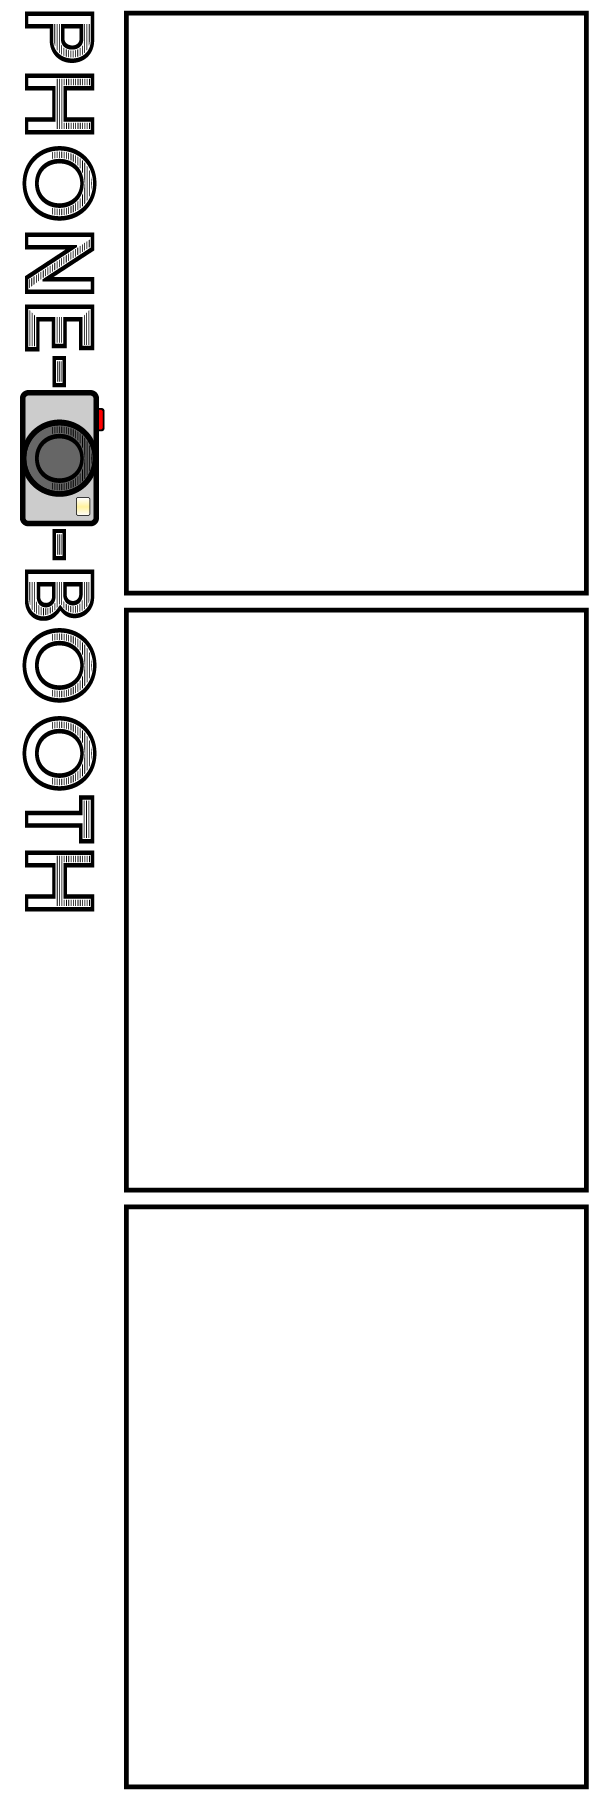
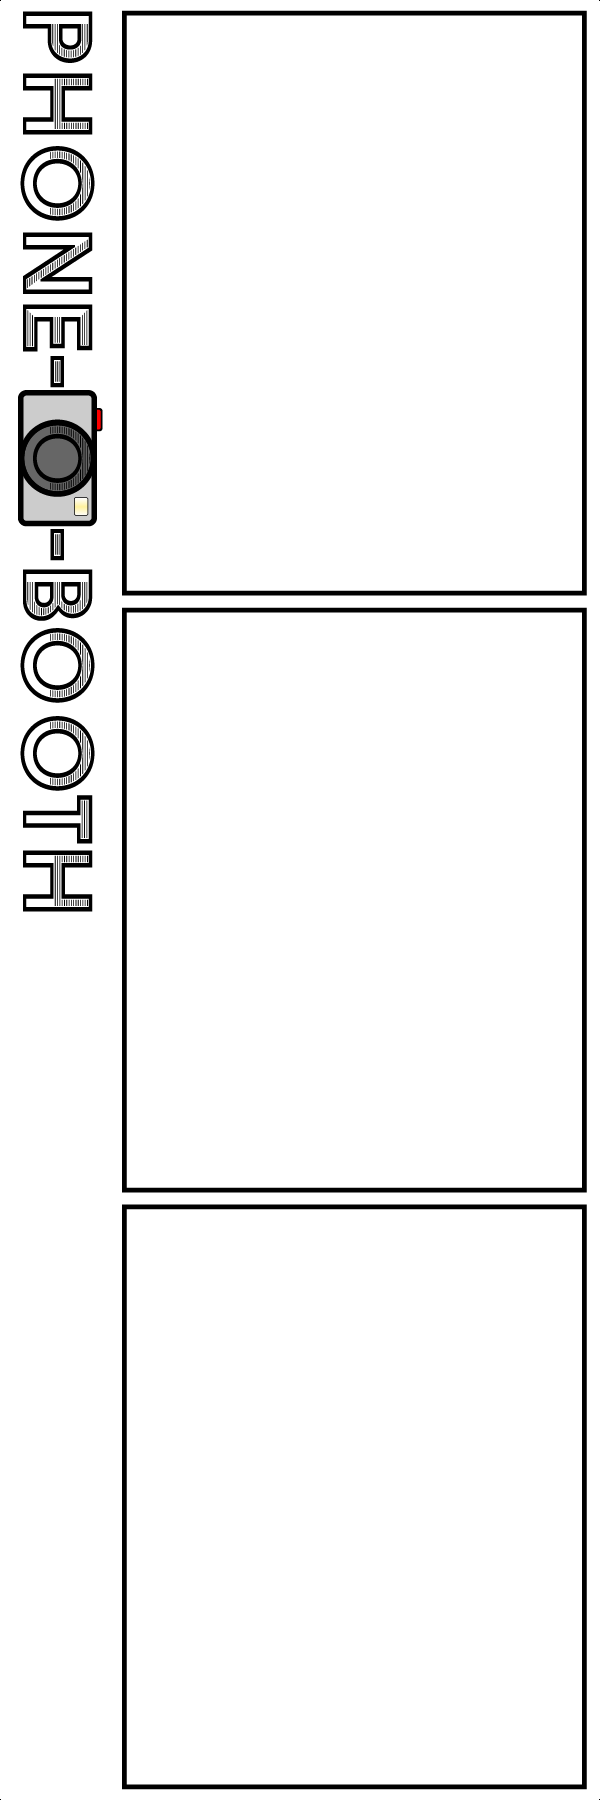
Phoneobooth Big Update

Changed region(s): [[0.03, 0.0, 0.24, 0.9956]]

diff --git a/phoneobooth/phoneobooth.js b/phoneobooth/phoneobooth.js
@@ -17,6 +17,10 @@ let snap1;
 let snap2;
 let snap3;
 let snap4;
+let snap1bw;
+let snap2bw;
+let snap3bw;
+let snap4bw;
 let firstTime = true;
 let printSave;
 let digiSave;
@@ -25,6 +29,11 @@ let exportmenu = false;
 let desktop = false;
 let translation = 0;
 let photomax;
+let bwfilter = false;
+let currentcolor = 0;
+let colors;
+let colormax;
+let framecolordark = false;
 
 function preload() {
   helpbg = loadImage('assets/help.png');
@@ -35,7 +44,13 @@ function preload() {
   digiTemp = loadImage('assets/digitemp.png');
   printTempM = loadImage('assets/printtempm.png');
   digiTempM = loadImage('assets/digitempm.png');
+  printTempW = loadImage('assets/printtempwhite.png');
+  digiTempW = loadImage('assets/digitempwhite.png');
+  printTempWM = loadImage('assets/printtempwhitem.png');
+  digiTempWM = loadImage('assets/digitempwhitem.png');
   exportMenuBg = loadImage('assets/exportmenu.png');
+  bwdot = loadImage('assets/bwdot.png');
+  coldot = loadImage('assets/coldot.png');
 }
 
 function setup() {
@@ -56,6 +71,17 @@ function setup() {
   stroke('black');
   strokeWeight(4);
   heightScale = capture.height;
+  white =color(255, 255, 255);
+  sky = color(186,225,255);
+  lavender = color(201,201,255);
+  sunbeam = color(255,255,186);
+  tangerine = color(255,209,173);
+  rose = color(255,189,189);
+  green = color(186,255,201);
+  black =color(0, 0, 0);
+  colors = [white, sky, lavender, sunbeam, tangerine, rose, green, black];
+  colormax = colors.length - 1;
+
 }
 
 
@@ -99,8 +125,11 @@ function draw() {
       cnv = createCanvas(windowWidth, windowWidth*1.7);
     }
     background(241, 95, 91);
+
     image(exportbg, 0, 0, ratioScale*1080, ratioScale*1840);
     image(digiSave, 340*ratioScale, 272*ratioScale, ratioScale*400, ratioScale*1200);
+    drawFilterDot();
+    drawColorDot();
     if (exportmenu) {
       image(exportMenuBg, 125*ratioScale, 401*ratioScale, ratioScale*828, ratioScale*556);
     }
@@ -136,6 +165,12 @@ function touchEnded() {
     }
     if (buttonBounds(56, 1548, 457, 94)) {
       exportmenu = true;
+    }
+    if (buttonBounds(819, 1266, 174, 174)) {
+      changeFilter();
+    }
+    if (buttonBounds(79, 1266, 174, 174)) {
+      changeColor();
     }
     if (exportmenu) {
       if (buttonBounds(235, 607, 610, 94)) {
@@ -192,12 +227,16 @@ function flashScreen() {
     //Take Photo
     if (photoCounter == 0) {
       snap1 = capture.get();
+      snap1bw = capture.get();
     } else if (photoCounter == 1) {
       snap2 = capture.get();
+      snap2bw = capture.get();
     } else if (photoCounter == 2) {
       snap3 = capture.get();
+      snap3bw = capture.get();
     } else if (photoCounter == 3) {
       snap4 = capture.get();
+      snap4bw = capture.get();
     }
   }
   if (flashCounter==0) {
@@ -224,32 +263,52 @@ function resetVars() {
 }
 
 function printingScreen() {
-if(desktop) {
-printingScreenD();
-} else {
-printingScreenM();
-}
+  snap1bw.filter(GRAY, false);
+  snap2bw.filter(GRAY, false);
+  snap3bw.filter(GRAY, false);
+  if (desktop) {
+    snap4bw.filter(GRAY, false);
+    printingScreenD();
+  } else {
+    printingScreenM();
+  }
 }
 
 function digifyScreen() {
-if(desktop) {
-digifyScreenD();
-} else {
-digifyScreenM();
-}
+  if (desktop) {
+    digifyScreenD();
+  } else {
+    digifyScreenM();
+  }
 }
 
 function printingScreenD() {
   cnvBuild = createCanvas(1200, 1800);
-  image(printTemp, 0, 0, 1200, 1800);
-  image(snap1, 50, 45, 501, 376);
-  image(snap1, 650, 45, 501, 376);
-  image(snap2, 50, 458, 501, 376);
-  image(snap2, 650, 458, 501, 376);
-  image(snap3, 50, 871, 501, 376);
-  image(snap3, 650, 871, 501, 376);
-  image(snap4, 50, 1284, 501, 376);
-  image(snap4, 650, 1284, 501, 376);
+  drawStripBG();
+  if (bwfilter) {
+    image(snap1bw, 50, 45, 501, 376);
+    image(snap1bw, 650, 45, 501, 376);
+    image(snap2bw, 50, 458, 501, 376);
+    image(snap2bw, 650, 458, 501, 376);
+    image(snap3bw, 50, 871, 501, 376);
+    image(snap3bw, 650, 871, 501, 376);
+    image(snap4bw, 50, 1284, 501, 376);
+    image(snap4bw, 650, 1284, 501, 376);
+  } else {
+    image(snap1, 50, 45, 501, 376);
+    image(snap1, 650, 45, 501, 376);
+    image(snap2, 50, 458, 501, 376);
+    image(snap2, 650, 458, 501, 376);
+    image(snap3, 50, 871, 501, 376);
+    image(snap3, 650, 871, 501, 376);
+    image(snap4, 50, 1284, 501, 376);
+    image(snap4, 650, 1284, 501, 376);
+  }
+  if (framecolordark) {
+    image(printTempW, 0, 0, 1200, 1800);
+  } else {
+    image(printTemp, 0, 0, 1200, 1800);
+  }
   printSave = cnvBuild.get();
   printScreen = false;
   digiScreen = true;
@@ -257,11 +316,24 @@ function printingScreenD() {
 
 function digifyScreenD() {
   cnvBuildDig = createCanvas(600, 1800);
-  image(digiTemp, 0, 0, 600, 1800);
-  image(snap1, 50, 45, 501, 376);
-  image(snap2, 50, 458, 501, 376);
-  image(snap3, 50, 871, 501, 376);
-  image(snap4, 50, 1284, 501, 376);
+  drawStripBG();
+  if (bwfilter) {
+    image(snap1bw, 50, 45, 501, 376);
+    image(snap2bw, 50, 458, 501, 376);
+    image(snap3bw, 50, 871, 501, 376);
+    image(snap4bw, 50, 1284, 501, 376);
+  } else {
+    image(snap1, 50, 45, 501, 376);
+    image(snap2, 50, 458, 501, 376);
+    image(snap3, 50, 871, 501, 376);
+    image(snap4, 50, 1284, 501, 376);
+  }
+
+  if (framecolordark) {
+    image(digiTempW, 0, 0, 600, 1800);
+  } else {
+    image(digiTemp, 0, 0, 600, 1800);
+  }
   digiSave = cnvBuildDig.get();
   digiScreen = false;
   finalScreen = true;
@@ -269,13 +341,27 @@ function digifyScreenD() {
 
 function printingScreenM() {
   cnvBuild = createCanvas(1200, 1800);
-  image(printTempM, 0, 0, 1200, 1800);
-  image(snap1, 126, 13, 458, 580);
-  image(snap2, 126, 610, 458, 580);
-  image(snap3, 126, 1207, 458, 580);
-  image(snap1, 726, 13, 458, 580);
-  image(snap2, 726, 610, 458, 580);
-  image(snap3, 726, 1207, 458, 580);
+  drawStripBG();
+  if (bwfilter) {
+    image(snap1bw, 126, 13, 458, 580);
+    image(snap2bw, 126, 610, 458, 580);
+    image(snap3bw, 126, 1207, 458, 580);
+    image(snap1bw, 726, 13, 458, 580);
+    image(snap2bw, 726, 610, 458, 580);
+    image(snap3bw, 726, 1207, 458, 580);
+  } else {
+    image(snap1, 126, 13, 458, 580);
+    image(snap2, 126, 610, 458, 580);
+    image(snap3, 126, 1207, 458, 580);
+    image(snap1, 726, 13, 458, 580);
+    image(snap2, 726, 610, 458, 580);
+    image(snap3, 726, 1207, 458, 580);
+  }
+  if (framecolordark) {
+    image(printTempWM, 0, 0, 1200, 1800);
+  } else {
+    image(printTempM, 0, 0, 1200, 1800);
+  }
   printSave = cnvBuild.get();
   printScreen = false;
   digiScreen = true;
@@ -283,13 +369,67 @@ function printingScreenM() {
 
 function digifyScreenM() {
   cnvBuildDig = createCanvas(600, 1800);
-  image(digiTempM, 0, 0, 600, 1800);
-  image(snap1, 126, 13, 458, 580);
-  image(snap2, 126, 610, 458, 580);
-  image(snap3, 126, 1207, 458, 580);
+  drawStripBG();
+  if (bwfilter) {
+    image(snap1bw, 126, 13, 458, 580);
+    image(snap2bw, 126, 610, 458, 580);
+    image(snap3bw, 126, 1207, 458, 580);
+  } else {
+    image(snap1, 126, 13, 458, 580);
+    image(snap2, 126, 610, 458, 580);
+    image(snap3, 126, 1207, 458, 580);
+  }
+  if (framecolordark) {
+    image(digiTempWM, 0, 0, 600, 1800);
+  } else {
+    image(digiTempM, 0, 0, 600, 1800);
+  }
   digiSave = cnvBuildDig.get();
   digiScreen = false;
   finalScreen = true;
+}
+
+function drawStripBG() {
+  push();
+  fill(colors[currentcolor]);
+  rect(0, 0, 1200, 1800);
+  pop();
+}
+
+function changeFilter() {
+  bwfilter = !bwfilter;
+  finalScreen = false;
+  printScreen = true;
+}
+
+function changeColor() {
+  if (currentcolor<colormax) {
+    currentcolor++;
+  } else {
+    currentcolor = 0;
+  }
+  if (currentcolor == colormax) {
+    framecolordark = true;
+  } else {
+    framecolordark = false;
+  }
+  finalScreen = false;
+  printScreen = true;
+}
+
+function drawColorDot() {
+  push();
+  fill(colors[currentcolor]);
+  circle(166*ratioScale, 1349*ratioScale, 174*ratioScale);
+  pop();
+}
+
+function drawFilterDot() {
+  if (bwfilter) {
+    image(bwdot, 819*ratioScale, 1266*ratioScale, ratioScale*175, ratioScale*175);
+  } else {
+    image(coldot, 819*ratioScale, 1266*ratioScale, ratioScale*175, ratioScale*175);
+  }
 }
 
 function windowResized() { //resize site on desktop
